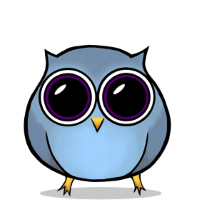
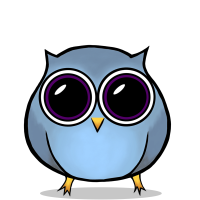
Increased loading speed

diff --git a/src/app/market/market.component.html b/src/app/market/market.component.html
@@ -81,9 +81,9 @@
                   <ngb-pagination class="d-flex justify-content-center" [collectionSize]="champsForSale.length" [(page)]="actualPage" [pageSize]="itemPerPage" [maxSize]="6" [boundaryLinks]="true"></ngb-pagination>
                </div>
                <div class="col-12 mt-5 ml-2 text-secondary text-center" *ngIf="champsForSale.length == 0" [hidden]="!this.game.champsNothingToSale">
-               <h3 class="h3">Wow, such empty!</h3>
-               <p class="lead mt-2">Seems like nobody sells</p>
-            </div>
+                  <h3 class="h3">Wow, such empty!</h3>
+                  <p class="lead mt-2">Seems like nobody sells</p>
+               </div>
          </div>
          <div *ngIf="(this.category == 'swords')" class="row">
             <div class="cai-card" *ngFor="let item of (swordsForSale | rankPipe:rankFilter).slice(itemPerPage * (actualPage - 1),itemPerPage * (actualPage - 1) + itemPerPage) | orderBy:order:reverse">
@@ -118,9 +118,9 @@
                <ngb-pagination class="d-flex justify-content-center" [collectionSize]="(swordsForSale| rankPipe:rankFilter).length" [(page)]="actualPage" [pageSize]="itemPerPage" [maxSize]="6" [boundaryLinks]="true"></ngb-pagination>
             </div>
             <div class="col-12 mt-5 ml-2 text-secondary text-center" *ngIf="(swordsForSale| rankPipe:rankFilter).length == 0" [hidden]="!this.game.swordsNothingToSale && rankFilter == null">
-            <h3 class="h3">Wow, such empty!</h3>
-            <p class="lead mt-2">Seems like nobody sells</p>
-         </div>
+               <h3 class="h3">Wow, such empty!</h3>
+               <p class="lead mt-2">Seems like nobody sells</p>
+            </div>
       </div>
       <div *ngIf="(this.category == 'shields')" class="row">
          <div class="cai-card" *ngFor="let item of (shieldsForSale | rankPipe:rankFilter).slice(itemPerPage * (actualPage - 1),itemPerPage * (actualPage - 1) + itemPerPage) | orderBy:order:reverse">
@@ -155,9 +155,9 @@
             <ngb-pagination class="d-flex justify-content-center" [collectionSize]="(shieldsForSale| rankPipe:rankFilter).length" [(page)]="actualPage" [pageSize]="itemPerPage" [maxSize]="6" [boundaryLinks]="true"></ngb-pagination>
          </div>
          <div class="col-12 mt-5 ml-2 text-secondary text-center" *ngIf="(shieldsForSale| rankPipe:rankFilter).length == 0" [hidden]="!this.game.shieldsNothingToSale && rankFilter == null">
-         <h3 class="h3">Wow, such empty!</h3>
-         <p class="lead mt-2">Seems like nobody sells</p>
-      </div>
+            <h3 class="h3">Wow, such empty!</h3>
+            <p class="lead mt-2">Seems like nobody sells</p>
+         </div>
    </div>
    <div *ngIf="(this.category == 'helmets')" class="row">
       <div class="cai-card" *ngFor="let item of (helmetsForSale | rankPipe:rankFilter).slice(itemPerPage * (actualPage - 1),itemPerPage * (actualPage - 1) + itemPerPage) | orderBy:order:reverse">
@@ -192,9 +192,9 @@
          <ngb-pagination class="d-flex justify-content-center" [collectionSize]="(helmetsForSale| rankPipe:rankFilter).length" [(page)]="actualPage" [pageSize]="itemPerPage" [maxSize]="6" [boundaryLinks]="true"></ngb-pagination>
       </div>
       <div class="col-12 mt-5 ml-2 text-secondary text-center" *ngIf="(helmetsForSale| rankPipe:rankFilter).length == 0" [hidden]="!this.game.helmetsNothingToSale && rankFilter == null">
-      <h3 class="h3">Wow, such empty!</h3>
-      <p class="lead mt-2">Seems like nobody sells</p>
-   </div>
+         <h3 class="h3">Wow, such empty!</h3>
+         <p class="lead mt-2">Seems like nobody sells</p>
+      </div>
    </div>
    <div class="loading row" *ngIf="(this.category == 'champs' && champsForSale.length == 0)" [hidden]="this.game.champsNothingToSale"></div>
    <div class="loading row" *ngIf="(this.category == 'swords' && swordsForSale.length == 0)" [hidden]="this.game.swordsNothingToSale"></div>

diff --git a/src/app/portfolio/portfolio.component.html b/src/app/portfolio/portfolio.component.html
@@ -101,7 +101,7 @@
                      <p class="lead mt-2">Visit market for champs that are looking for a new master. Or you can just create new one for Ξ 0.005.</p>
                      <p class="lead"> <a routerLink="/market/champs" class="color-primary">Market</a> <a routerLink="/portfolio" class="color-primary ml-3" (click)="createNewChamp()">Create a Champ</a> </p>
                   </div>
-                  <div class="col-sm-1 vertical-centering hidden-sm-down"><img src="../../assets/img/empty.png" class="img-fluid"></div>
+                  <div class="col-sm-1 vertical-centering hidden-sm-down"><img src="../../assets/img/empty-sm.png" class="img-fluid"></div>
                </div>
             </div>
             <div class="col-12 text-center hidden-sm-up header-border py-4 mt-4">
@@ -181,7 +181,7 @@
                      <p class="lead mt-2">Items increase your champs’ abilities. Visit market or try your luck and open a loot box for Ξ 0.005.</p>
                      <p class="lead"> <a routerLink="/market/swords" class="color-primary">Market</a> <a routerLink="/portfolio" class="color-primary ml-3" (click)="openLootbox()">Open a Loot box</a> </p>
                   </div>
-                  <div class="col-1 vertical-centering hidden-sm-down"><img src="../../assets/img/empty.png" class="img-fluid"></div>
+                  <div class="col-1 vertical-centering hidden-sm-down"><img src="../../assets/img/empty-sm.png" class="img-fluid"></div>
                </div>
             </div>
             <div class="col-12 text-center hidden-sm-up header-border py-4 mt-4">

diff --git a/src/app/home/home.component.html b/src/app/home/home.component.html
@@ -19,7 +19,7 @@
          <div class="col-12 col-sm-6 vertical-centering order-1 order-sm-2">
             <div class="row my-3">
                <div class="col">
-                  <img src="../assets/img/mycryptochamp.png" class="img-fluid">
+                  <img src="../assets/img/mycryptochamp-md.png" class="img-fluid">
                </div>
             </div>
          </div>
@@ -30,7 +30,7 @@
    <div class="container my-5 bg-white p-5 border-radius text-darkgrey box-shadow">
       <div class="row">
          <div class="col-12 col-sm-10 offset-sm-1 text-center">
-            <img src="../assets/img/logo.png" width="120" height="120" class="img-fluid" alt="MyCryptoChamp logo">
+            <img src="../assets/img/logo-sm.png" width="120" height="120" class="img-fluid" alt="MyCryptoChamp logo">
             <h2 class="h2-responsive mt-4 color-dark text-uppercase">About</h2>
             <p class="fontsize-sm font-thin mt-4">MyCryptoChamp is a multi-player online game, based on Ethereum blockchain technology. Your champs and items are just your property as in any other cryptocurrency asset. You may buy, sell and gift them as you want. Champs can challenge each other and the best 800 champs are daily rewarded by Ether. The introduction of blockchain makes the process secure thanks to the technology’s ability to credibly trace ownerships and control actions in the game.
             <p>

diff --git a/src/app/item/item.component.html b/src/app/item/item.component.html
@@ -11,7 +11,7 @@
                      {{item.price| number:'1.1-4'}} Ξ
                   </span>
                </div>
-               <img src="../../assets/img/items/{{this.game.getItemImg(item.id, item.type, item.rank)}}" class="img-fluid mt-1" alt="{{item.rank + ' ' + item.type}}">
+               <img src="../../assets/img/items-md/{{this.game.getItemImg(item.id, item.type, item.rank)}}" class="img-fluid mt-1" alt="{{item.rank + ' ' + item.type}}">
                <div class="row mt-5 stats">
                   <div class="col px-1"><img src="../../assets/img/icons/sword-small.png" alt="Attack power" title="Attack power" height="18" width="18" class="mb-1"><br><span>{{item.attackPower}}</span></div>
                   <div class="col px-1"><img src="../../assets/img/icons/shield-small.png" alt="Defence power" title="Defence power" height="18" width="18" class="mb-1"><br><span>{{item.defencePower}}</span></div>

diff --git a/src/app/champ/champ.component.html b/src/app/champ/champ.component.html
@@ -12,7 +12,7 @@
                      {{champ.price| number:'1.1-4'}} Ξ
                   </span>
                </div>
-               <img src="../../assets/img/champs/{{this.game.getChampImg(champ.id)}}" class="img-fluid" alt="Champ">
+               <img src="../../assets/img/champs-md/{{this.game.getChampImg(champ.id)}}" class="img-fluid" alt="Champ">
                <div class="row mt-5 stats">
                   <div class="col-4 px-1"><img src="../../assets/img/icons/sword-small.png" alt="Attack power" title="Attack power" height="18" width="18" class="mb-1"><br><span>{{champ.attackPower}}</span></div>
                   <div class="col-4 px-1"><img src="../../assets/img/icons/shield-small.png" alt="Defence power" title="Defence power" height="18" width="18" class="mb-1"><br><span>{{champ.defencePower}}</span></div>

diff --git a/src/app/header/header.component.html b/src/app/header/header.component.html
@@ -1,6 +1,6 @@
 <nav class="navbar navbar-expand-lg navbar-dark bg-dark">
     <div class="container">
-        <a class="navbar-brand" routerLink="/portfolio"><img src="../assets/img/logo.png" width="60" height="60" class="img-fluid mr-3 logo-rounded" alt="MyCryptoChamp logo"><span>MyCryptoChamp</span></a>
+        <a class="navbar-brand" routerLink="/portfolio"><img src="../assets/img/logo-sm.png" width="60" height="60" class="img-fluid mr-3 logo-rounded" alt="MyCryptoChamp logo"><span>MyCryptoChamp</span></a>
         <button class="navbar-toggler" type="button" (click)="isNavbarCollapsed = !isNavbarCollapsed" data-toggle="collapse" data-target="#navbarNavDropdown" aria-controls="navbarNavDropdown" aria-expanded="false" aria-label="Toggle navigation">
             <span class="navbar-toggler-icon"></span>
         </button>

diff --git a/src/app/nw3header/nw3header.component.html b/src/app/nw3header/nw3header.component.html
@@ -1,6 +1,6 @@
 <nav class="navbar navbar-expand-lg navbar-dark bg-dark">
     <div class="container">
-        <a class="navbar-brand" routerLink="/"><img src="../assets/img/logo.png" width="60" height="60" class="img-fluid mr-3 logo-rounded" alt="MyCryptoChamp logo"><span>MyCryptoChamp</span></a>
+        <a class="navbar-brand" routerLink="/"><img src="../assets/img/logo-sm.png" width="60" height="60" class="img-fluid mr-3 logo-rounded" alt="MyCryptoChamp logo"><span>MyCryptoChamp</span></a>
         <button class="navbar-toggler" type="button" (click)="isNavbarCollapsed = !isNavbarCollapsed" data-toggle="collapse" data-target="#navbarNavDropdown" aria-controls="navbarNavDropdown" aria-expanded="false" aria-label="Toggle navigation">
             <span class="navbar-toggler-icon"></span>
         </button>

diff --git a/src/app/forge/forge.component.html b/src/app/forge/forge.component.html
@@ -22,7 +22,7 @@
                      <p class="lead mt-2">Visit market or try your luck and open a loot box for Ξ 0.005.</p>
                      <p class="lead"> <a routerLink="/market/swords" class="color-primary">Market</a> <a routerLink="/forge" class="color-primary ml-3" (click)="openLootbox()">Open a Loot box</a> </p>
                   </div>
-                  <div class="col-sm-1 vertical-centering hidden-sm-down"><img src="../../assets/img/empty.png" class="img-fluid"></div>
+                  <div class="col-sm-1 vertical-centering hidden-sm-down"><img src="../../assets/img/empty-sm.png" class="img-fluid"></div>
                </div>
             </div>
          </div>

diff --git a/README.md b/README.md
@@ -1,3 +1,3 @@
-# MyCryptoChamp v1.1.0
+# MyCryptoChamp v1.1.1
 
 https://mycryptochamp.io
